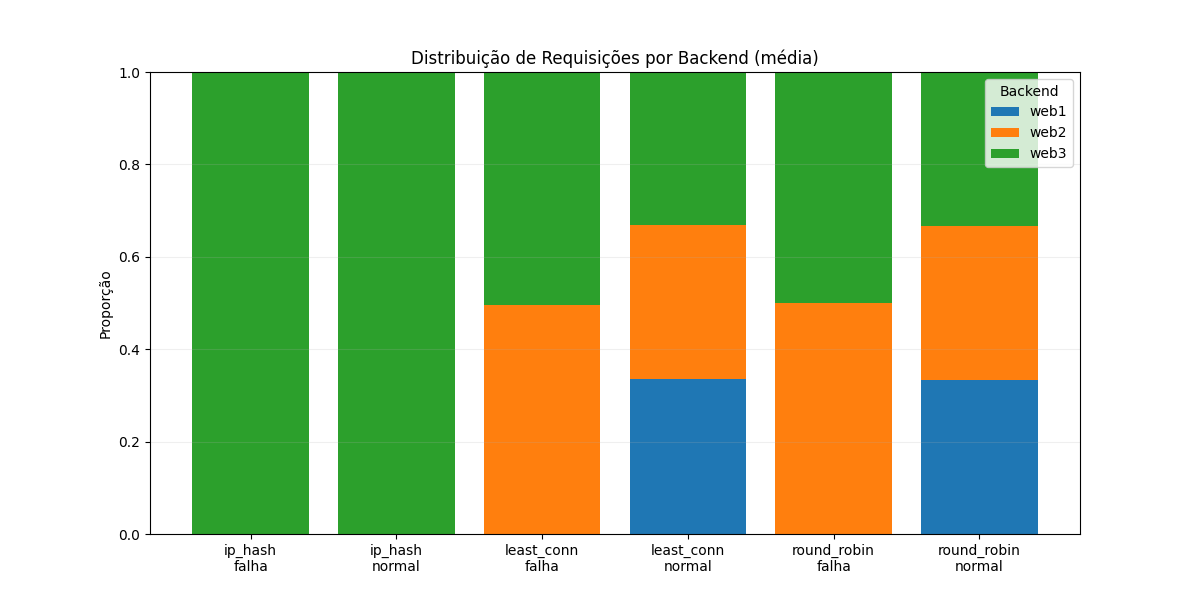
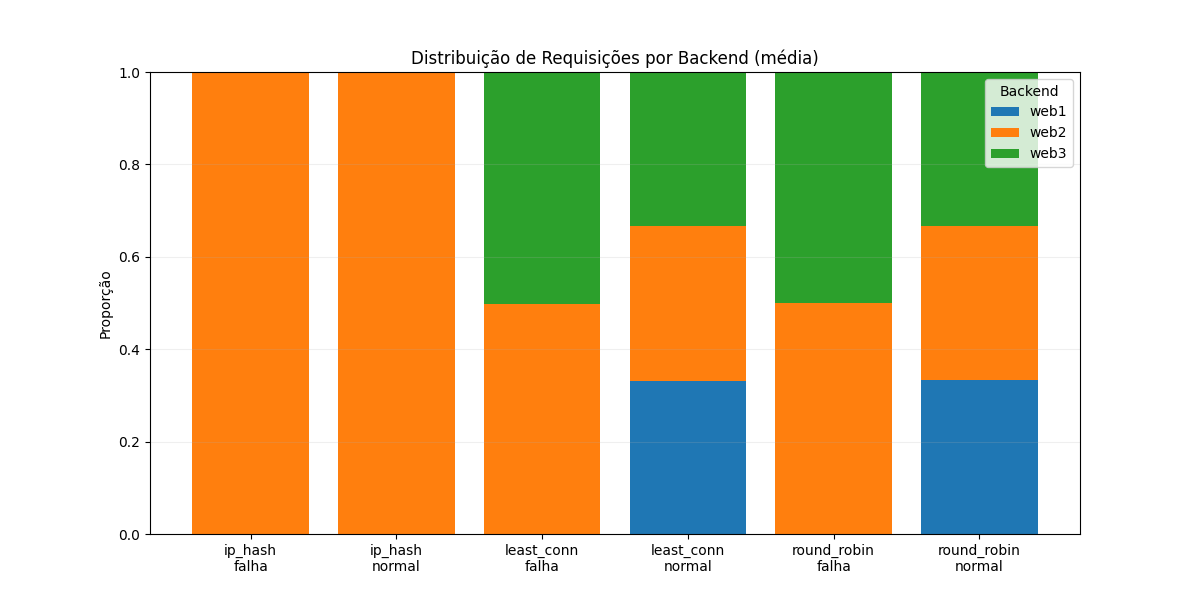
video

Changed region(s): [[0.1542, 0.12, 0.4008, 0.9], [0.5242, 0.63, 0.6167, 0.66]]

diff --git a/test_runner.py b/test_runner.py
@@ -69,7 +69,8 @@ AB_DEFAULT_OPTS = ["-r", "-s", "60"]
 
 def run_ab_test(n, c):
   """Executa ApacheBench e retorna métricas."""
-  cmd = ["ab", *AB_DEFAULT_OPTS, "-n", str(n), "-c", str(c), "http://localhost/"]
+  cmd = ["ab", *AB_DEFAULT_OPTS, "-n",
+         str(n), "-c", str(c), "http://localhost/"]
   result = subprocess.run(cmd, stdout=subprocess.PIPE,
                           stderr=subprocess.PIPE, text=True)
   output = result.stdout
@@ -129,41 +130,40 @@ def get_server_distribution():
 results = []
 test_matrix = [(1000, 10), (1000, 100)]
 
-for mode in MODES:
-  set_nginx_mode(mode)
-  time.sleep(2)
+for scenario in SCENARIOS:
 
-  for n, c in test_matrix:
-    for scenario in SCENARIOS:
+  if scenario == "falha":
+    print("[SIM] 💥 Pausando web1 para simular falha...")
+    subprocess.run(["docker", "pause", "sd-desafio06-web1-1"])
+    time.sleep(3)
+
+  for mode in MODES:
+    set_nginx_mode(mode)
+    time.sleep(2)
+
+    for n, c in test_matrix:
       clear_nginx_log()
 
+      print(f"[RUN] {mode} - {scenario} - n={n}, c={c}")
+      rps, tpr = run_ab_test(n, c)
+      dist = get_server_distribution()
+      if rps == 0:
+        rps = dist.get("logged_requests_per_sec", 0)
+      if tpr == 0:
+        tpr = dist.get("logged_time_per_req_ms", 0)
       if scenario == "falha":
-        print("[SIM] 💥 Pausando web1 para simular falha...")
-        subprocess.run(["docker", "pause", "sd-desafio06-web1-1"])
-        time.sleep(1)
+        dist["web1_requests"] = 0
+        dist["web1_avg_time_ms"] = 0.0
+      dist.update({
+          "mode": mode, "n": n, "c": c,
+          "requests_per_sec": rps,
+          "time_per_req": tpr,
+          "scenario": scenario
+      })
+      results.append(dist)
 
-      try:
-        print(f"[RUN] {mode} - {scenario} - n={n}, c={c}")
-        rps, tpr = run_ab_test(n, c)
-        dist = get_server_distribution()
-        if rps == 0:
-          rps = dist.get("logged_requests_per_sec", 0)
-        if tpr == 0:
-          tpr = dist.get("logged_time_per_req_ms", 0)
-        if scenario == "falha":
-          dist["web1_requests"] = 0
-          dist["web1_avg_time_ms"] = 0.0
-        dist.update({
-            "mode": mode, "n": n, "c": c,
-            "requests_per_sec": rps,
-            "time_per_req": tpr,
-            "scenario": scenario
-        })
-        results.append(dist)
-      finally:
-        if scenario == "falha":
-          subprocess.run(["docker", "unpause", "sd-desafio06-web1-1"])
-          time.sleep(2)
+subprocess.run(["docker", "unpause", "sd-desafio06-web1-1"])
+time.sleep(2)
 
 # ============================================================
 # Salvando resultados e gráficos

diff --git a/README.md b/README.md
@@ -48,7 +48,23 @@ av3-loadbalancer/
 └── README.md
 
 ````
+## ✅ Pré‑requisitos
 
+Antes de rodar o projeto, instale as dependências abaixo no host (Ubuntu/Debian):
+
+```bash
+# Atualizar pacotes
+sudo apt update=
+
+# Utilitário para gerar carga (ab) e manipular headers
+sudo apt install -y apache2-utils
+
+# Python e bibliotecas para análise/gráficos
+sudo apt install -y python3-pip
+pip3 install --user pandas matplotlib
+```
+
+Observação: instale o Docker seguindo as instruções oficiais para sua distribuição. Após adicionar seu usuário ao grupo docker, faça logout/login para aplicar a mudança.
 ---
 
 ## ⚙ Configuração do Ambiente
